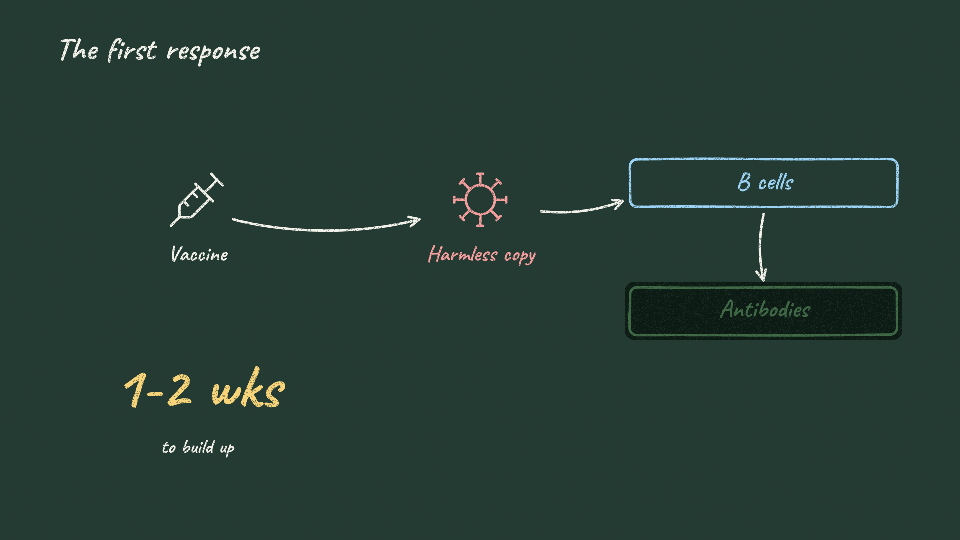
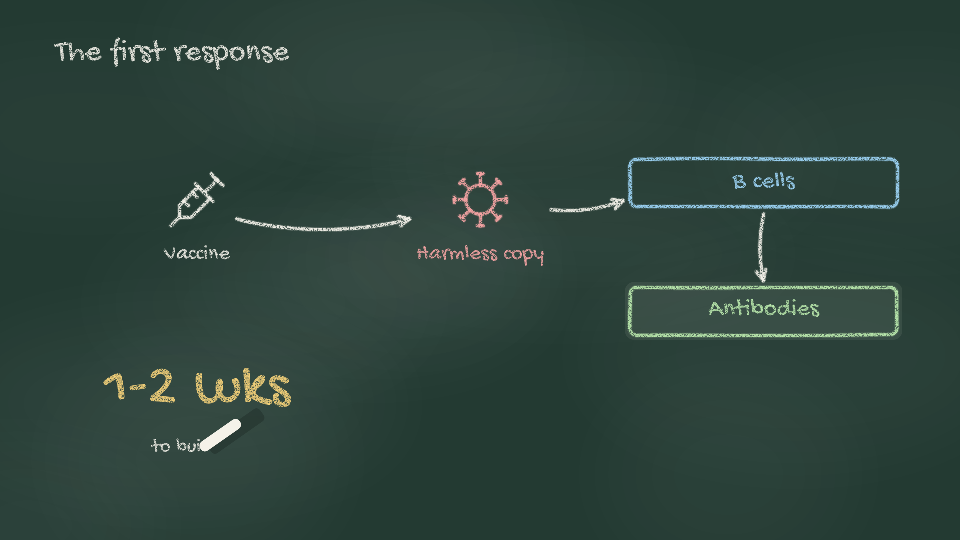
docs: whiteboard themes, phases 0 to 3

diff --git a/docs/video-overview-spec.md b/docs/video-overview-spec.md
@@ -692,6 +692,31 @@ A whiteboard video started on its first idea and stopped on its last: the deck's
 
 They are drawn by the browser that draws a deck's slides, in the board's paper and ink; with no browser, the studio writes them on the board itself. Each is a chapter, **Introduction** and **Recap**, so the watch page's strip and its Chapters tab show them, and what each shows (the agenda, the takeaways) is in the video's script for the tutor. They cost nothing: no model writes or checks them, and they are left out of the counts of scenes written first time, repaired or checked.
 
+### 2026-10-07, themes
+
+A whiteboard video can now be made in a theme, as [plans/video-themes.md](plans/video-themes.md) planned: the same scenes, written and checked as before, drawn in another paper, ink, pen and hand. Phases 0 to 3 of that plan are done; phase 4 (illustrated themes) is not.
+
+**The themes**, all drawn by the studio, at no cost beyond the render's own:
+
+| Theme | Paper | Pen and hand |
+|---|---|---|
+| Whiteboard (default) | Off-white board | Marker, Caveat; unchanged, held to golden images |
+| Notebook | Lined paper, red margin | Blue ballpoint, Kalam |
+| Chalkboard | Green slate with old chalk clouds | Chalk with grain and a dusty edge, Gochi Hand |
+| Blueprint | Prussian blue with a white grid | Thin, steady technical pen, Architects Daughter |
+| Retro Print | Cream newsprint | Typewriter (Special Elite), light halftone screens, a second impression a little out of register |
+| Paper-craft | Card with fibres | Cut-paper shapes that drop in with soft shadows, icons on paper discs, Patrick Hand |
+
+**How:** one `Theme` (`build/whiteboard/theme.py`) carries the whole look (paper and what is printed on it, the five inks the scenes name by tone, the highlighter and how it blends, the pen and its tip, fills and shadows, the hand, the opening and closing slides' colours). It is set where drawing starts (`compile_scene`, `draw.frames`, `check.still`, the slides) and read below with `current()`; a drawing process is told the theme's id. The fonts are bundled under OFL or Apache 2.0 (`assets/LICENSES.md`).
+
+**From the request to the frame:** `POST /api/sessions/{sid}/video` and `POST /api/collections/{cid}/videos` take `theme`; the job carries it; the video's state and script report it; `GET /api/video/themes` lists them.
+
+**In the app:** the Video overview tool shows a Theme row of thumbnails when the style is Whiteboard (rendered by `server/scripts/theme_previews.py` into `web/public/themes/`); the choice is remembered in the browser, per collection and overall, and "Make a video of this" on an output uses the last one. An output's video line and the watch page name the theme ("Chalkboard video").
+
+**Readable:** every ink reaches 3:1 against its paper (WCAG's bar for large text; every label is 24 px or more); every theme added reaches 4:1 everywhere, on its highlighter and on Paper-craft's cut paper too. The whiteboard's amber and green on its yellow highlighter fall short and are kept, as the whiteboard is kept unchanged.
+
+**Measured on lab01**, the vaccines session: Chalkboard 3:22, $0.35, 32/32 claims; Notebook 3:21, $0.34, 39/39; Blueprint 3:23, $0.27, 40/40.
+
 ## Appendix A. Scene JSON (draft)
 
 ```json

diff --git a/docs/plans/video-themes.md b/docs/plans/video-themes.md
@@ -1,6 +1,6 @@
 # Plan: themes for video overviews
 
-Status: planned, not started (2026-10-07). Owner: whoever picks it up.
+Status: phases 0 to 3 done (2026-10-07), phase 4 (illustrated themes) to do. See the spec's amendment "themes".
 Read first: [video-overview-spec.md](../video-overview-spec.md) (how a video is made today), sections 4.4 to 4.9 and the amendments.
 
 ## 1. What and why
@@ -26,7 +26,7 @@ NotebookLM gets its styles by painting every slide with an image model (Nano Ban
 | Kawaii | illustrated | 4 | Cute rounded characters, pastel |
 | Custom | illustrated | 4 | The person's own words, e.g. "children's storybook" |
 
-Previews of a drawn theme, one scene rendered by a palette and background swap only (no new drawing code), are in [plans/img](img/): `video-themes-whiteboard.png`, `-notebook.png`, `-chalkboard.png`, `-blueprint.png`. Notebook already reads well. Chalkboard and Blueprint show the two problems phase 1 fixes: the highlight is multiplied, so on a dark board it darkens the box until its label is hard to read ("Antibodies"), and chalk needs real grain.
+Previews of each drawn theme, rendered by the real renderer, are in [plans/img](img/): `video-themes-<id>.png`.
 
 ## 2. Decisions
 
